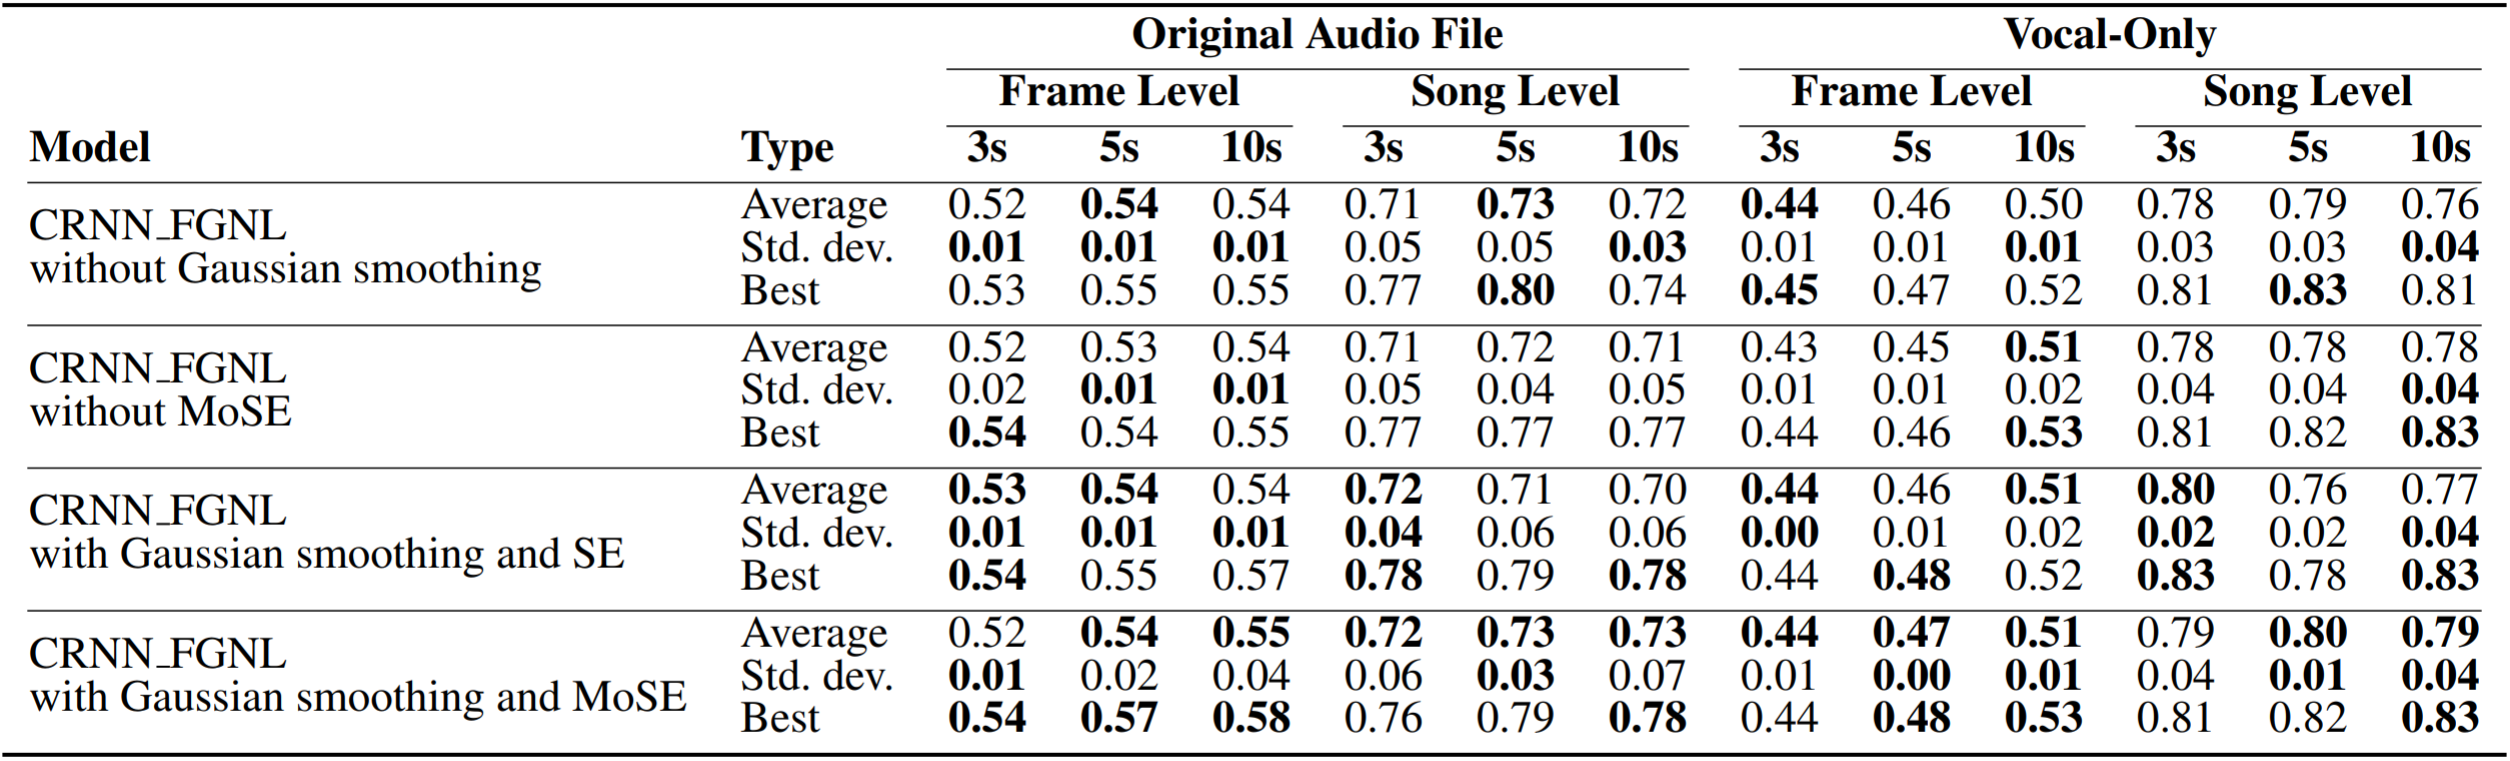
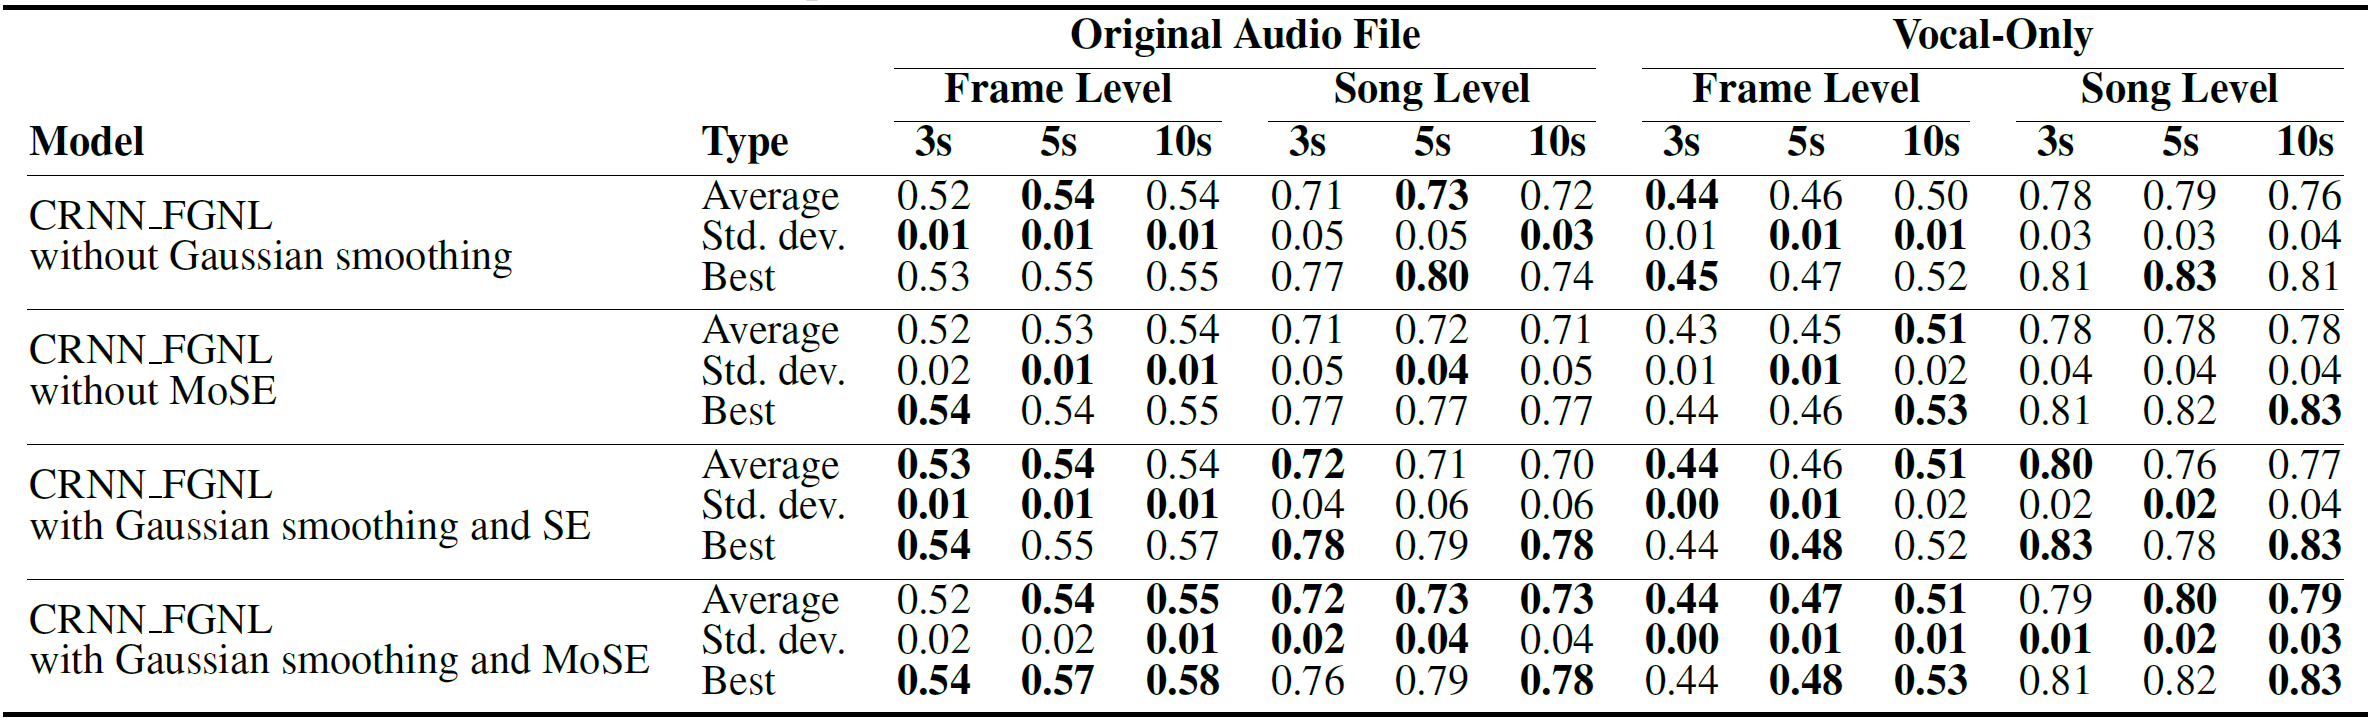
Update Result Table 3, 5, 6

Changed region(s): [[0.0, 0.0, 1.0, 1.0], [0.0, 0.2742, 0.2188, 0.3961], [0.0, 0.4571, 0.125, 0.5789]]

diff --git a/README.md b/README.md
@@ -100,6 +100,16 @@ pip install crepe
 
 ![image](https://github.com/ian-k-1217/Fully-Generalized-Non-Local-Network/blob/master/images/Result_Table4.png)
 
+
+- **Table 5:** *Ablation experiments of CRNNM_FGNL with and without Gaussian smoothing, MoSE, and SE (Hu, Shen, and Sun 2018) mechanisms. Bold indicates the comparison winner of the model.*
+
+![image](https://github.com/ian-k-1217/Fully-Generalized-Non-Local-Network/blob/master/images/Result_Table5.png)
+
+
+- **Table 6:** *A series of experiments on CRNN and CRNNM models under different parameter settings. Bold is the comparison winner of the same series (CRNN or CRNNM) model.*
+
+![image](https://github.com/ian-k-1217/Fully-Generalized-Non-Local-Network/blob/master/images/Result_Table6.png)
+
 - **Representation Visualization:** *Visualization of the embeddings (projected into 2-D space by t-SNE) under the original audio file setting of the 5-sec frame level test samples. From left to right are CRNN, CRNN_NL, CRNN_FGNL_LIGHT, and CRNN_FGNL.*
 
 ![image](https://github.com/ian-k-1217/Fully-Generalized-Non-Local-Network/blob/master/images/Result_RepresentationVisualization.png)
